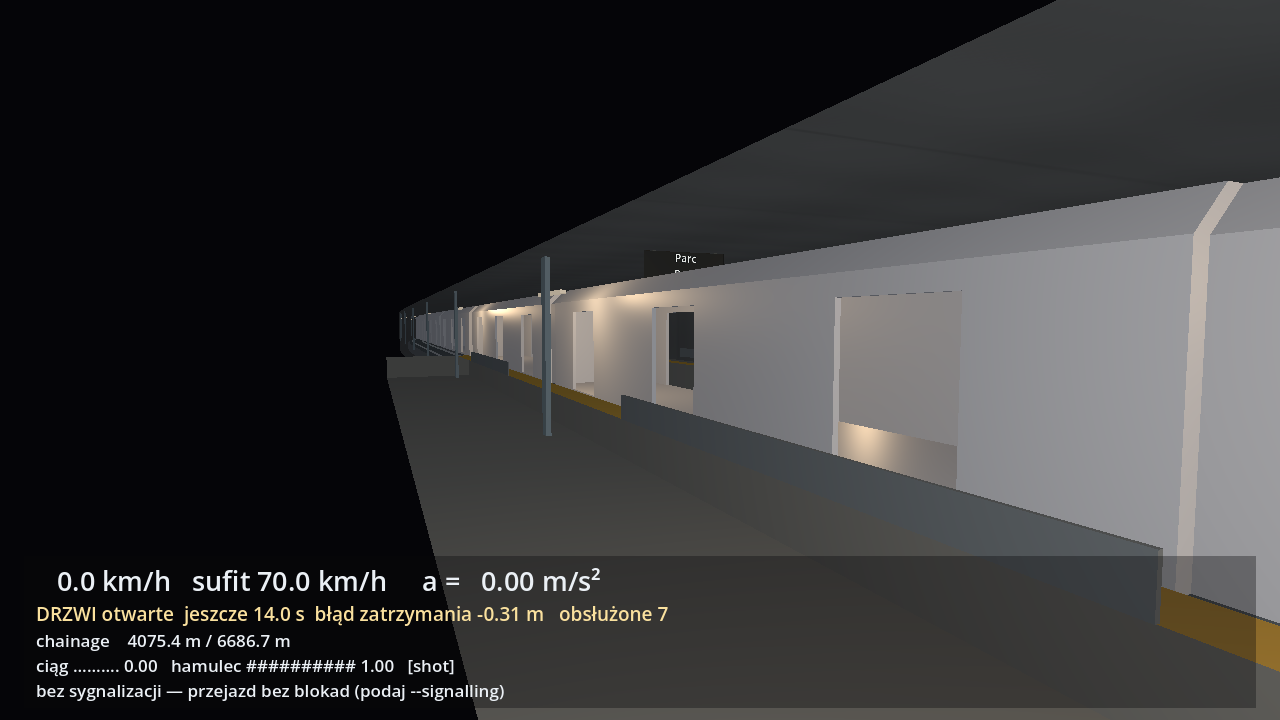
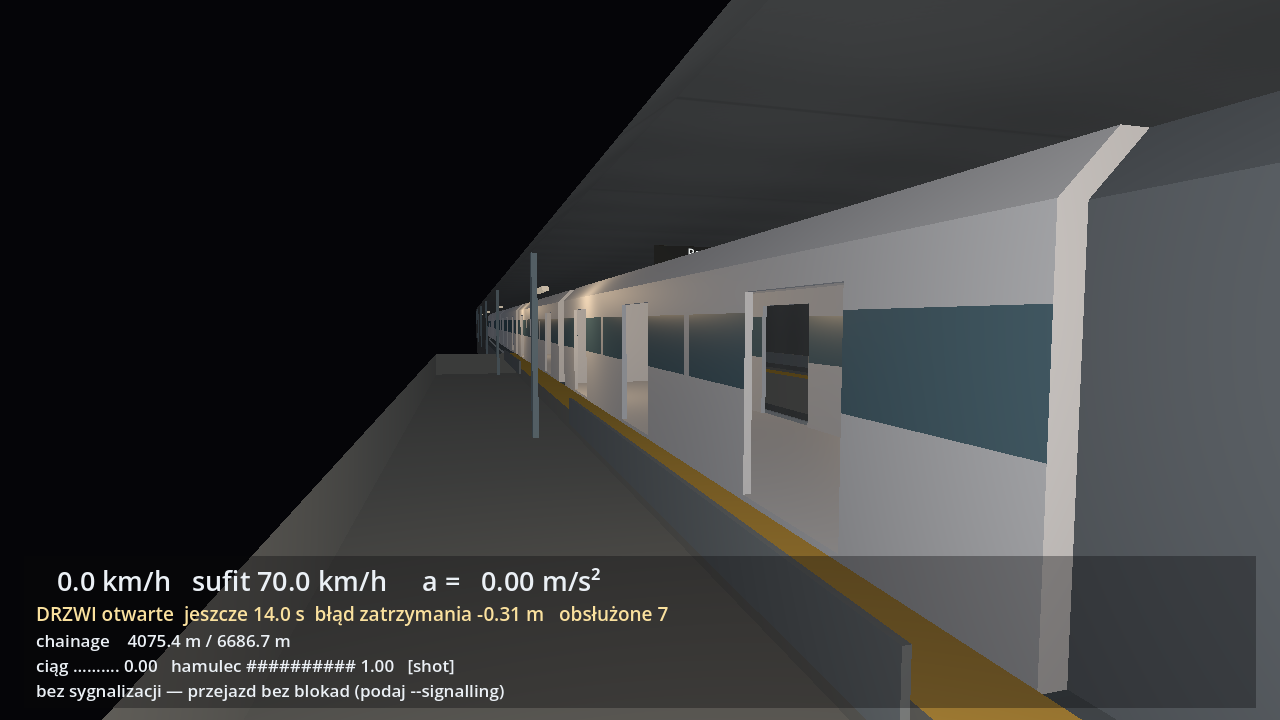
Refresh platform camera evidence at Parc and Beekkant

diff --git a/reports/t400-visual-evidence-2026-09-25.md b/reports/t400-visual-evidence-2026-09-25.md
@@ -67,6 +67,10 @@ To reproduce after generating assets with `bash tools/dev/prepare-playable.sh bu
 
 ## Platform camera follow-up
 
[1 lines of base64/hex data omitted]
+`--view=platform` places an inspection camera above a generated platform slab when the train reaches a station. It tests each candidate against the horizontal projection of the imported slab triangles, rather than the whole slab's axis-aligned bounding box, which includes empty space around curves. The candidates are 6 m to either side of the route axis; `CabPoint` is measured from the selected track, so the 2.1 m track offset is subtracted before checking them. Between stations the view falls back to the side inspection position. These are technical camera positions, not evidence of the real boarding side: package A generates slabs on both sides.
 
-To reproduce from generated package A assets, run Godot under Xvfb with `--line --limit-kmh=70 --shot=/absolute/path/PARC_platform.png --at-chainage=4075.66 --view=platform`. The frame confirms camera placement and scale in this modeled station only. It does not verify the real side of the Parc platform or the unfinished M7 exterior.
[1 lines of base64/hex data omitted]
+
[1 lines of base64/hex data omitted]
+
+To reproduce from generated package A assets, run Godot 4.7.2 under Xvfb with `--line --limit-kmh=70 --shot=/absolute/path/PARC_platform.png --at-chainage=4075.66 --view=platform`; use `--at-chainage=509.73` for Beekkant. The logs are from the fixed camera geometry in commits `fa4015d` and `007aa93`.
